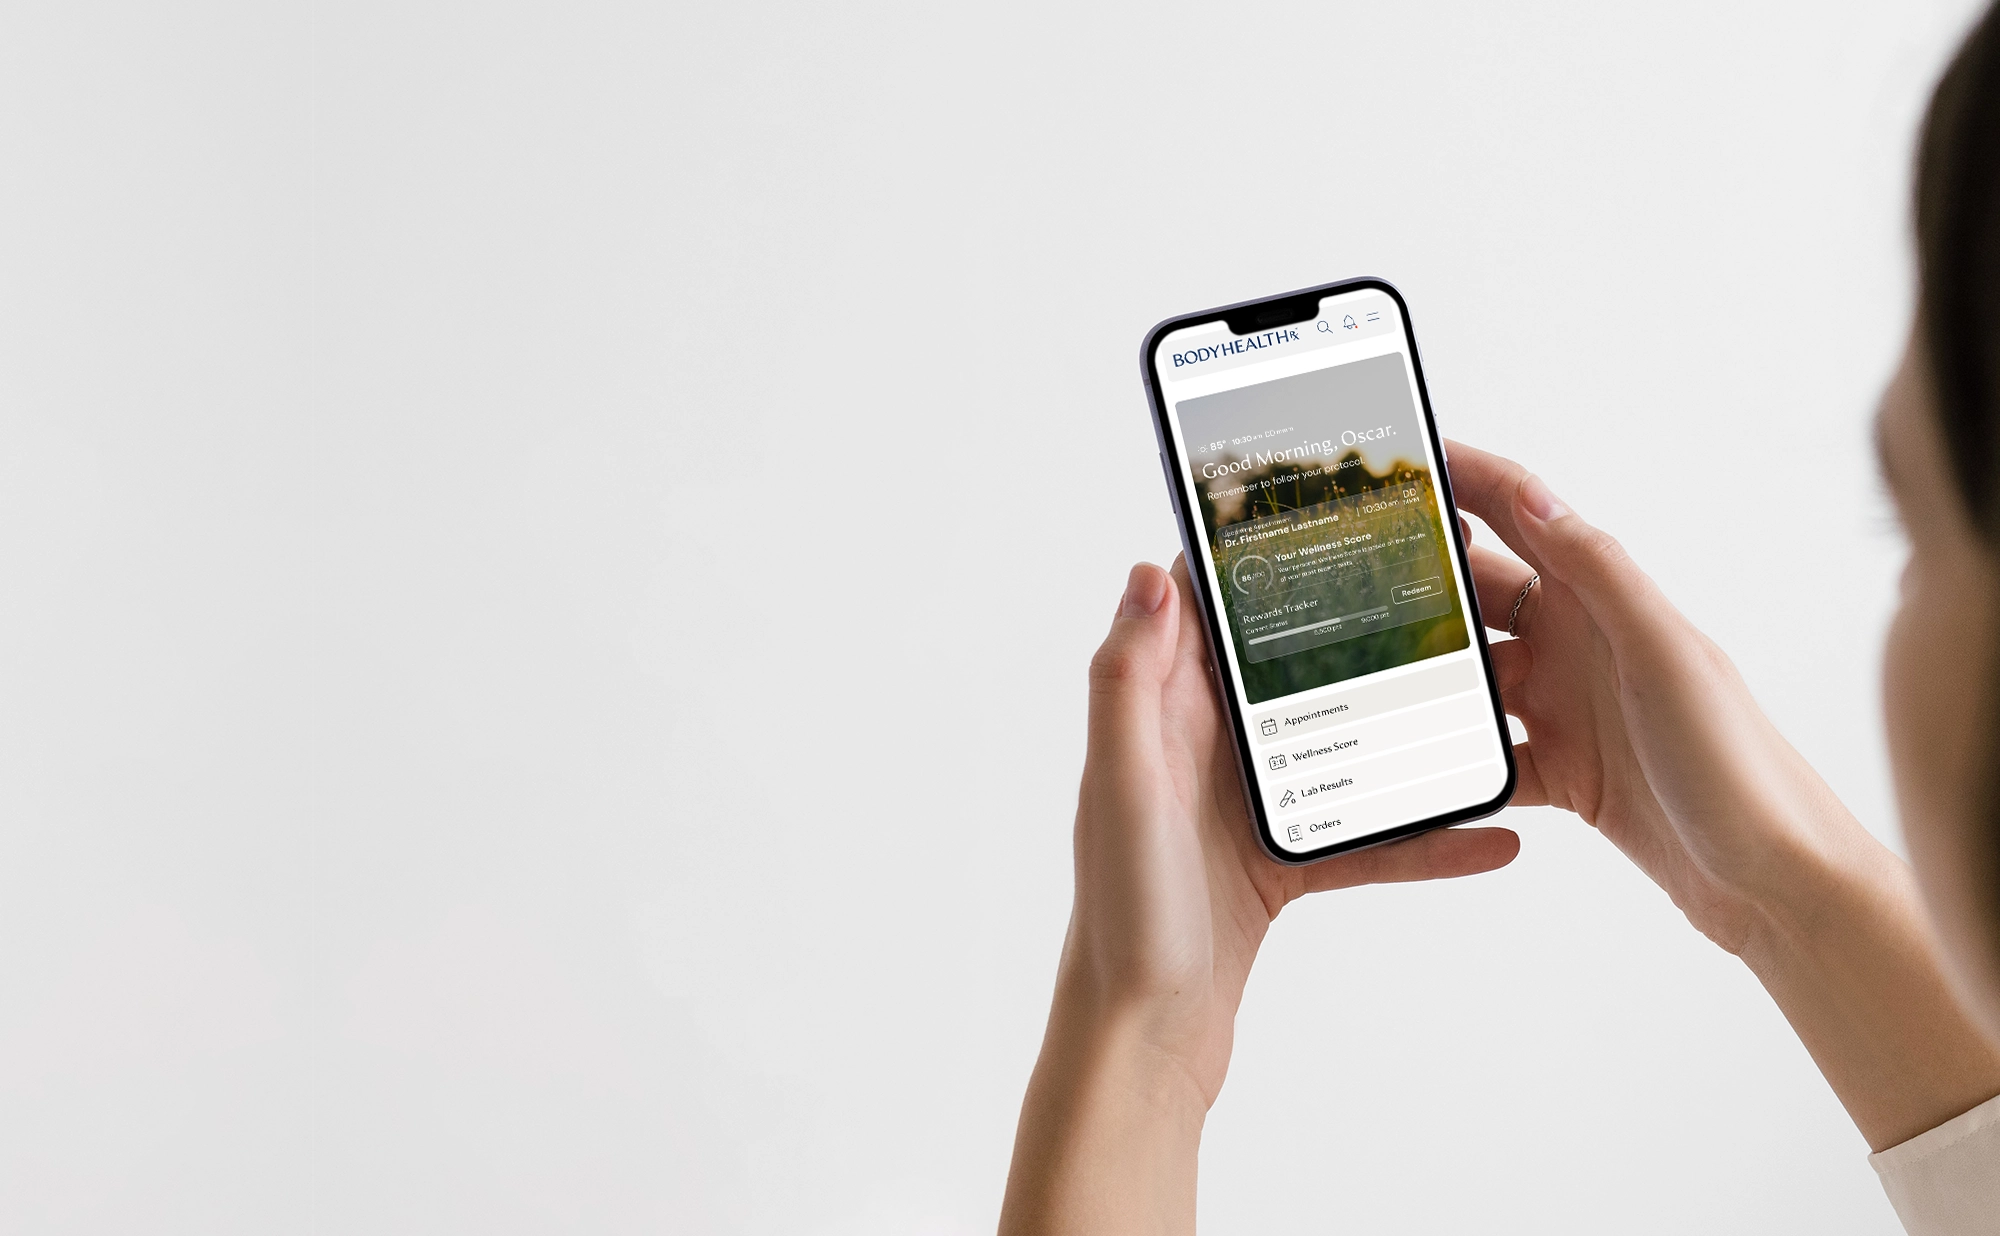
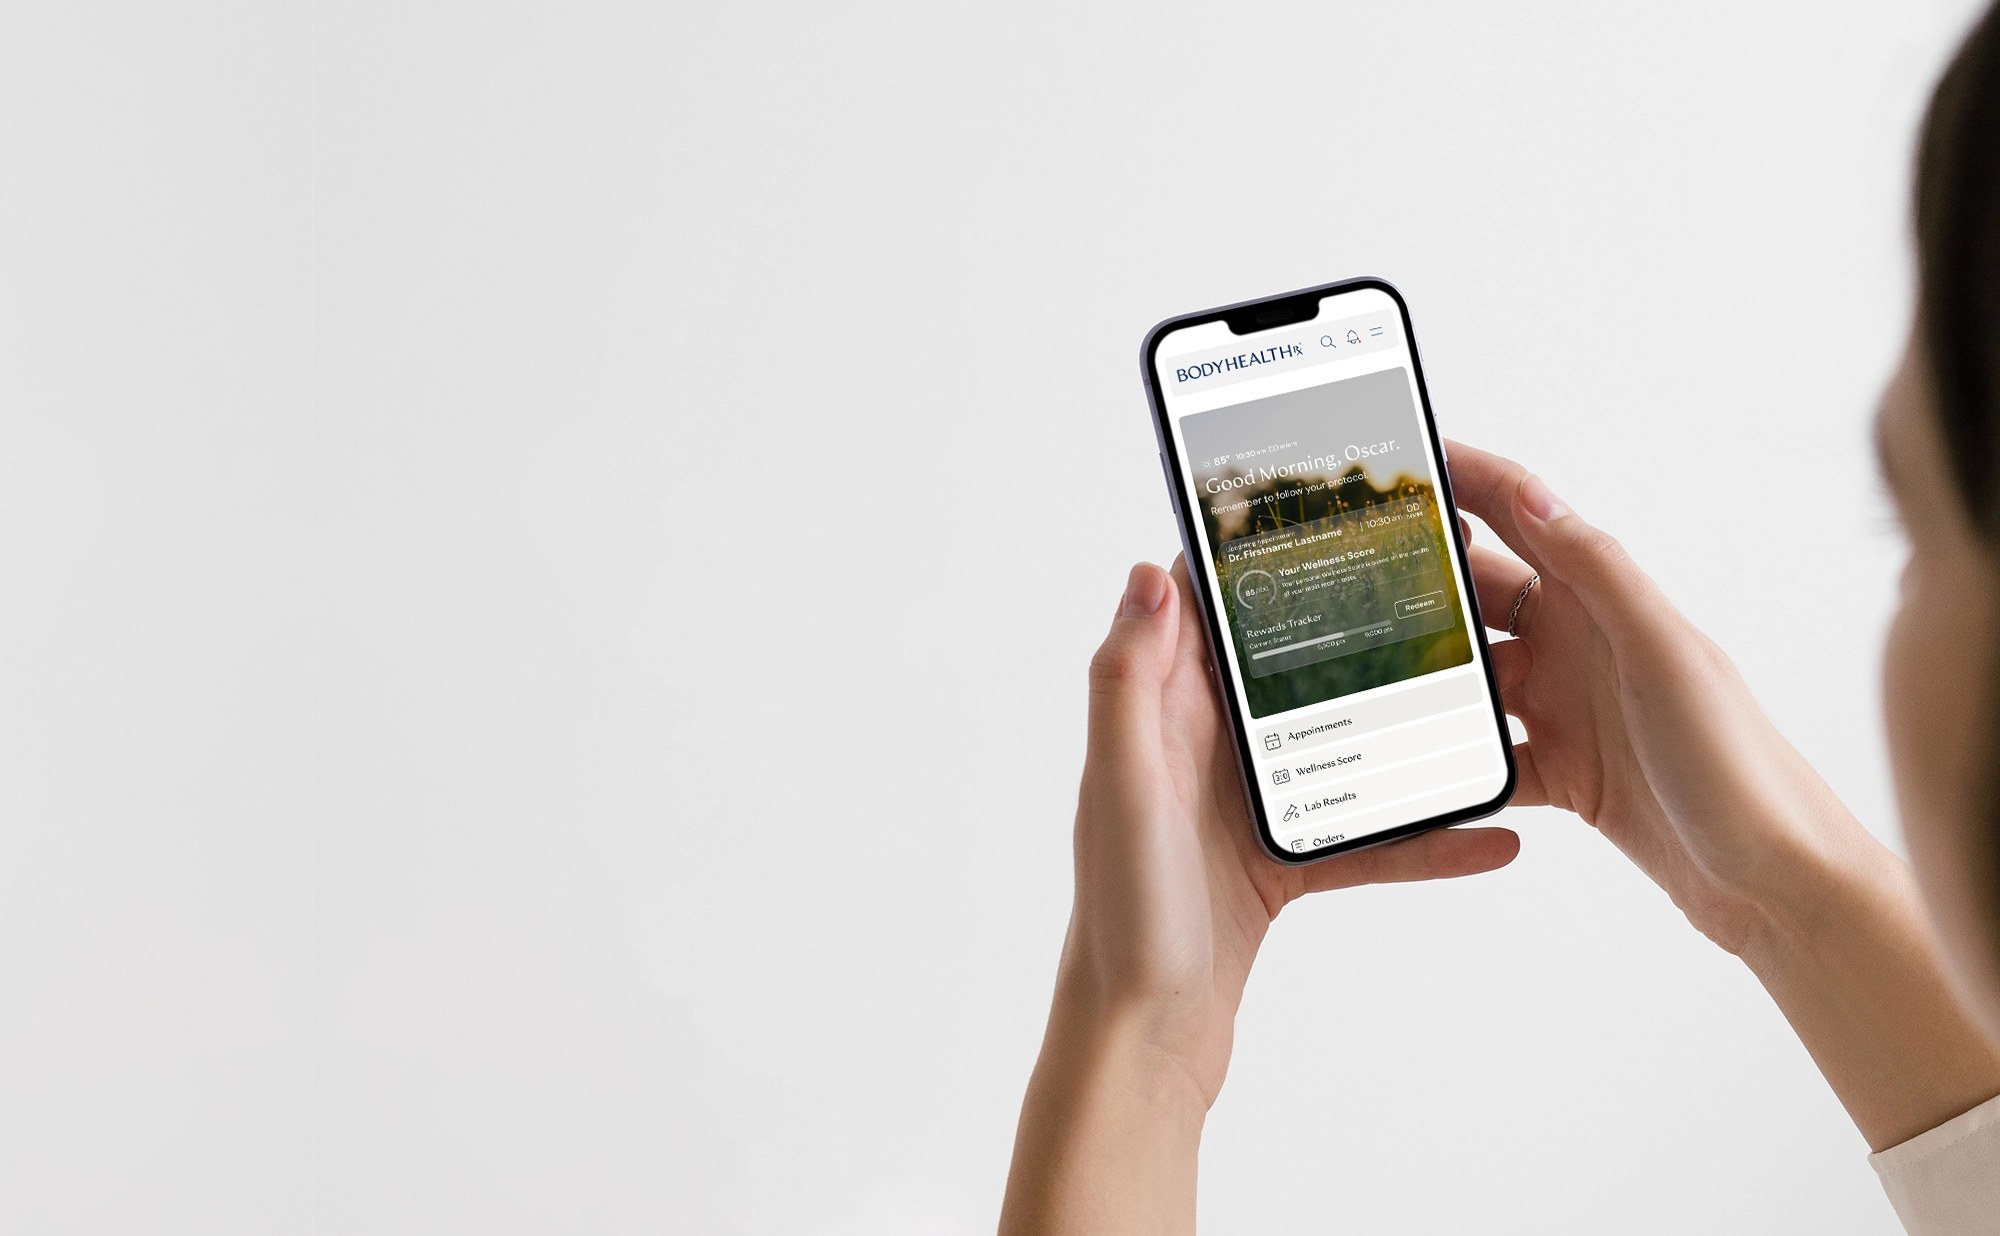
BHRx case study edits

Changed region(s): [[0.589, 0.2767, 0.744, 0.6764]]

diff --git a/projects/bodyhealthrx/index.html b/projects/bodyhealthrx/index.html
@@ -351,9 +351,8 @@
       </section>
       <section>
         <h2>The Brief</h2>
-        <p>I was brought in as a senior UX/UI design contractor as BodyHealthRx was preparing to launch an entirely new arm of their e-commerce platform &mdash; expanding from supplements into at-home diagnostic testing, compounded prescription medications, online clinical consultation, and subscription-based wellness programs. The rebrand had been underway for more than a year. For me, it started on day one: absorb context fast, operate independently, and deliver. Months of discovery and design compressed into weeks.</p>
-        <p>The scope of the platform is broad: at-home diagnostic testing, compounded prescription medications, online clinical consultation, and subscription-based wellness programs &mdash; all built on Shopify, all launching under a new brand identity, and all being defined and refined at the same time. This wasn&apos;t a simple redesign. It was a full platform launch compressed into months.</p>
-        <p>The scope breaks into three phases. Phase 1: a new website and brand for prescriptions and at-home testing to complement the existing supplements business. Phase 2, recently kicked off: a full user portal and personal wellness dashboard covering appointment scheduling, lab results, order tracking, rewards, and personalized wellness recommendations. Phase 3: the redesign and rebuild of the primary BodyHealth website. Three distinct phases, one design system, built on a foundation that was still being poured.</p>
+        <p>I was brought in as a senior UX/UI design contractor as BodyHealthRx was preparing to launch an entirely new arm of their e-commerce platform &mdash; expanding from supplements into at-home diagnostic testing, compounded prescription medications, online clinical consultation, and subscription-based wellness programs &mdash; all built on Shopify, all launching under a new brand identity, and all being defined and refined at the same time. The rebrand had been underway for more than a year. For me, it started on day one: absorb context fast, operate independently, and deliver. This wasn&apos;t a simple redesign. It was months of discovery and design compressed into weeks.</p>
+        <p>The project spans three phases. Phase 1: a new website and brand for prescriptions and at-home testing to complement the existing supplements business. Phase 2, recently kicked off: a full user portal and personal wellness dashboard covering appointment scheduling, lab results, order tracking, rewards, and personalized wellness recommendations. Phase 3: the redesign and rebuild of the primary BodyHealth website. Three distinct phases, one design system, built on a foundation that was still being poured.</p>
         <p><em>The BodyHealthRx site alone includes more than 100 designed pages:</em></p>
         <ul>
           <li>10 at-home test product pages, a test landing page, and a shop-all page / a prescriptions landing page, 10 category pages, and 50+ individual prescription pages</li>
@@ -415,7 +414,7 @@
       <section>
         <h2>V2: Refining for the Team</h2>
         <p>I&apos;ve occasionally been accused of throwing the baby out with the bathwater when I propose starting something over. I&apos;ve never really seen it that way. We evolve. User needs evolve. Best practices evolve. Business needs evolve. The tools we use to do the work should evolve too, and sometimes evolution means building something new rather than continuing to patch something old.</p>
-        <p>The first system was already better than what most teams have ever worked with. The decision to build a second one wasn&apos;t a judgment on it &mdash; it was the result of knowing more than I did when I started. You can&amp;apos;t fully design a system for a team you don&amp;apos;t know yet, and what I learned working closely with the creative team was that maximum flexibility wasn&amp;apos;t actually serving them. What they needed was something more purposefully constrained &amp;mdash; specific components and size and spacing structures with room to flex within a well-defined system, not an open-ended library that required constant decision-making.</p>
+        <p>The first system was already better than what most teams have ever worked with. The decision to build a second one wasn&apos;t a judgment on it &mdash; it was the result of knowing more than I did when I started. You can&apos;t fully design a system for a team you don&apos;t know yet, and what I learned working closely with the creative team was that maximum flexibility wasn&apos;t actually serving them. What they needed was something more purposefully constrained &amp;mdash; specific components and size and spacing structures with room to flex within a well-defined system, not an open-ended library that required constant decision-making.</p>
         <p>The second system reflects that understanding in concrete ways. Typography, for example, is no longer organized around semantic HTML tags. In V1, styles were tied to structural elements &mdash; h1, h2, p &mdash; which made sense architecturally but didn&apos;t map naturally to how the creative team thought about type. In V2, the style is separated from the architecture entirely. The organizing principle is heading, body, small, and fine, with t-shirt size options available for each. The underlying HTML structure is still there and still correct, but the design system speaks the language of the people using it.</p>
         <div class="gallery">
           <figure style="width: 100%">
@@ -475,7 +474,7 @@
         <h2>The Dashboard</h2>
         <p>Phase 2 centers on a user portal and personal wellness dashboard &mdash; a single authenticated experience that brings together appointment scheduling, lab result tracking, wellness score visualization, order history, rewards, and personalized product recommendations across mobile and widescreen.</p>
         <p>The dashboard is built around the idea that a wellness platform should feel personal from the moment you arrive. The experience greets users by name and opens with a daily affirmation. It knows the time of day and adjusts the banner imagery accordingly &mdash; a different feeling in the morning than in the evening. It surfaces the local weather and temperature for your location. It shows you notifications for upcoming appointments, your current rewards status, and your wellness score before you&apos;ve had to navigate anywhere. Everything above the fold is contextual, relevant, and yours.</p>
-        <p>From there, tabbed navigation moves fluidly between Appointments, Wellness Score, Lab Results, Orders, Rewards, and Recommendations. Lab results include biomarker grids, reference range visualizations, and chip-tagged clinical insights that help users understand what their numbers actually mean. The rewards section uses a progress bar with clear points accrual and redemption tracking. Personalized recommendations are organized by product category &mdash; supplements, prescriptions, and testing &mdash; and presented as curated cards based on the user&apos;s wellness history and goals.</p>
+        <p>From there, tabbed navigation moves between Appointments, Wellness Score, Lab Results, Orders, Rewards, and Recommendations. Lab results include biomarker grids, reference range visualizations, and chip-tagged clinical insights that help users understand what their numbers actually mean. The rewards section uses a progress bar with clear points accrual and redemption tracking. Personalized recommendations are organized by product category &mdash; supplements, prescriptions, and testing &mdash; and presented as curated cards based on the user&apos;s wellness history and goals.</p>
         <div class="gallery">
           <figure style="width: 100%;">
             <picture>
